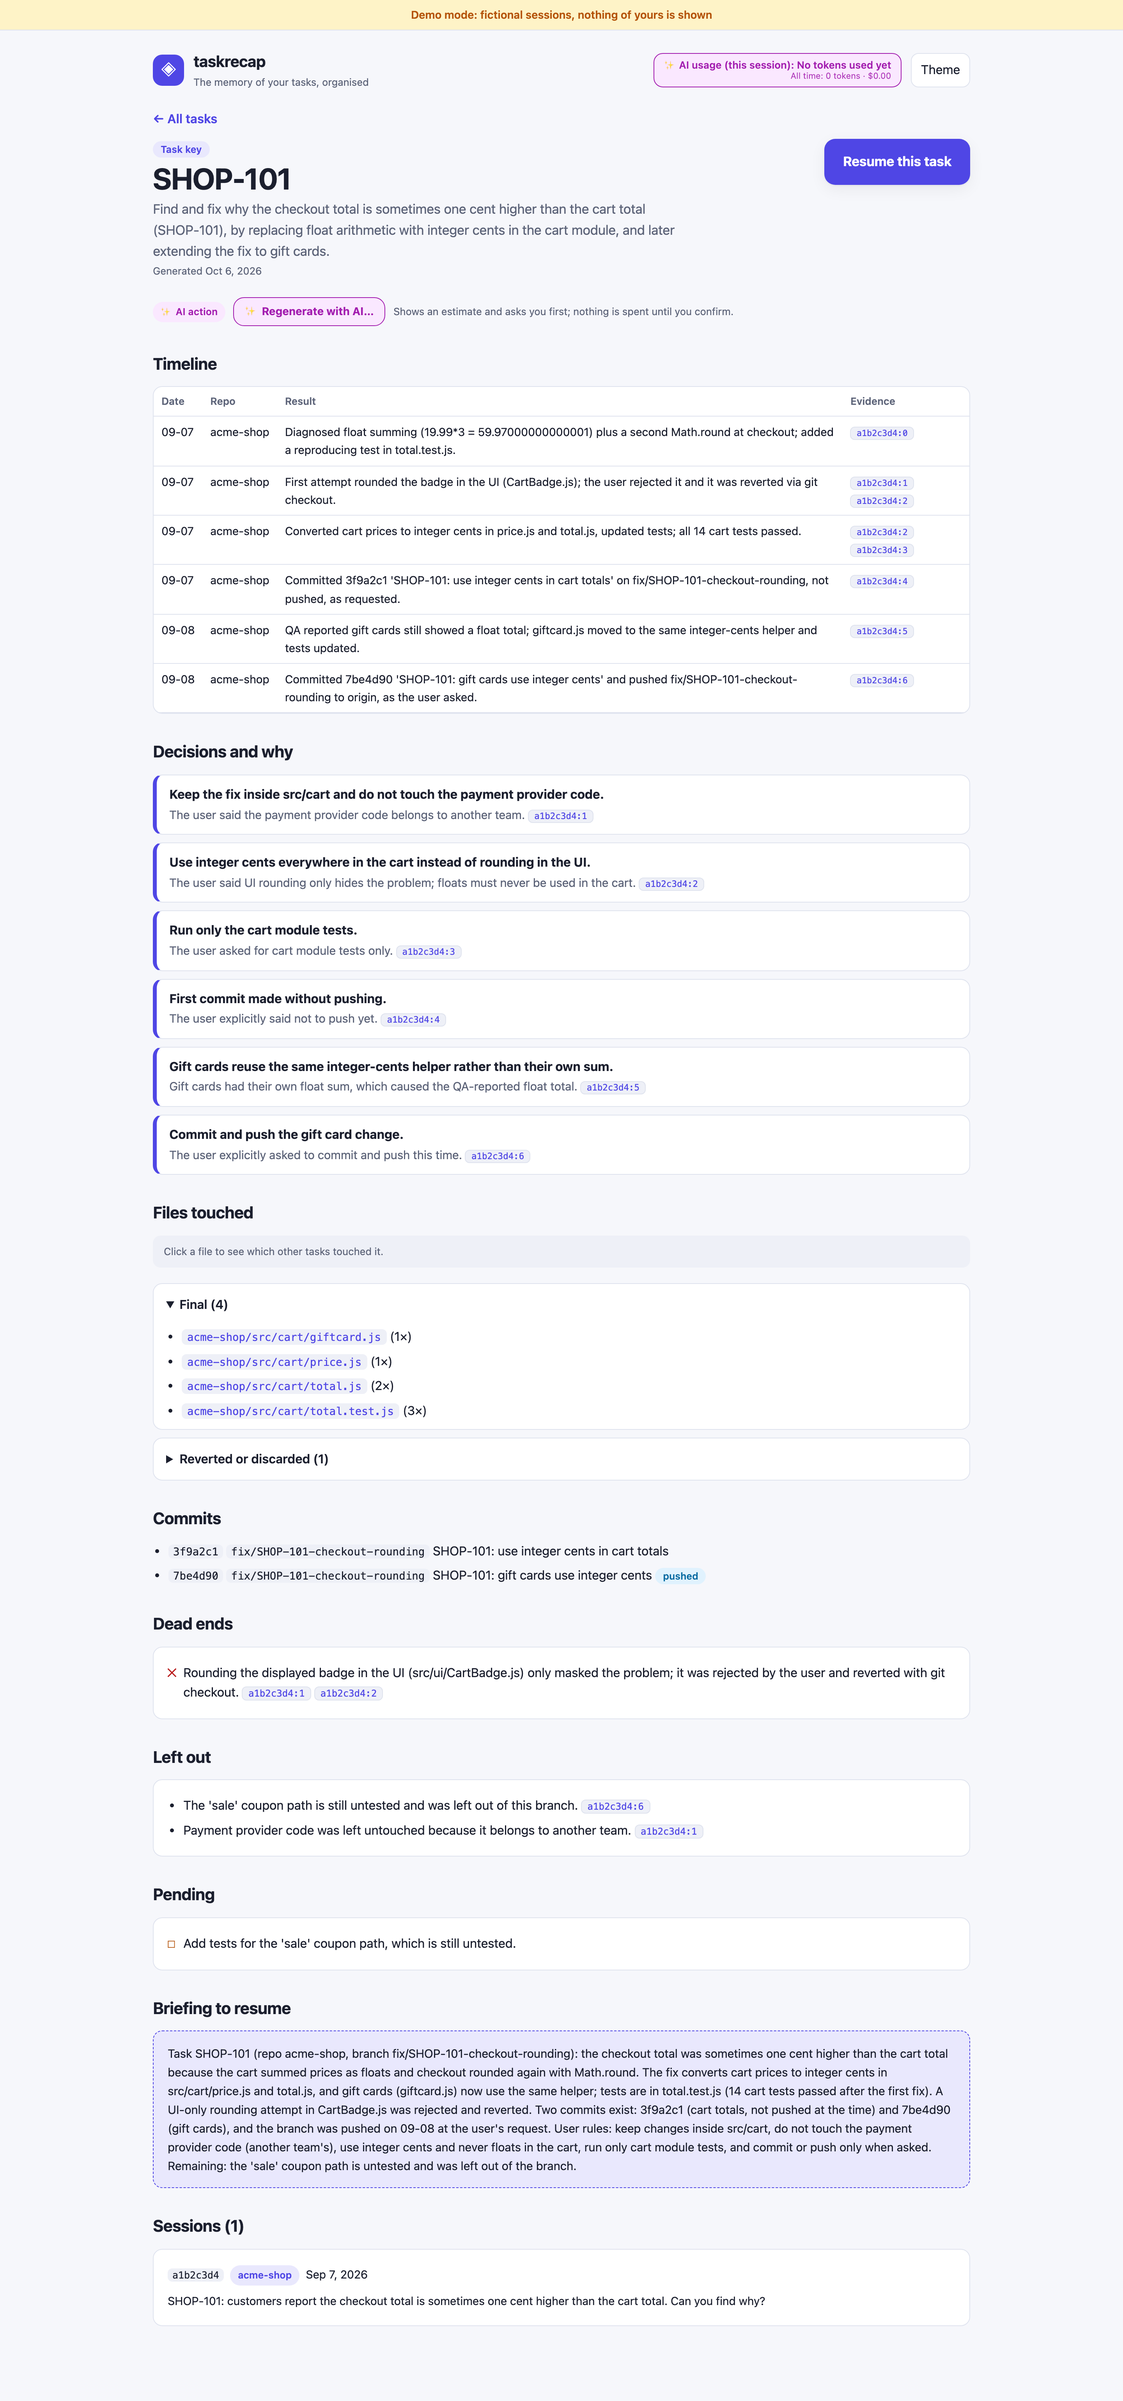
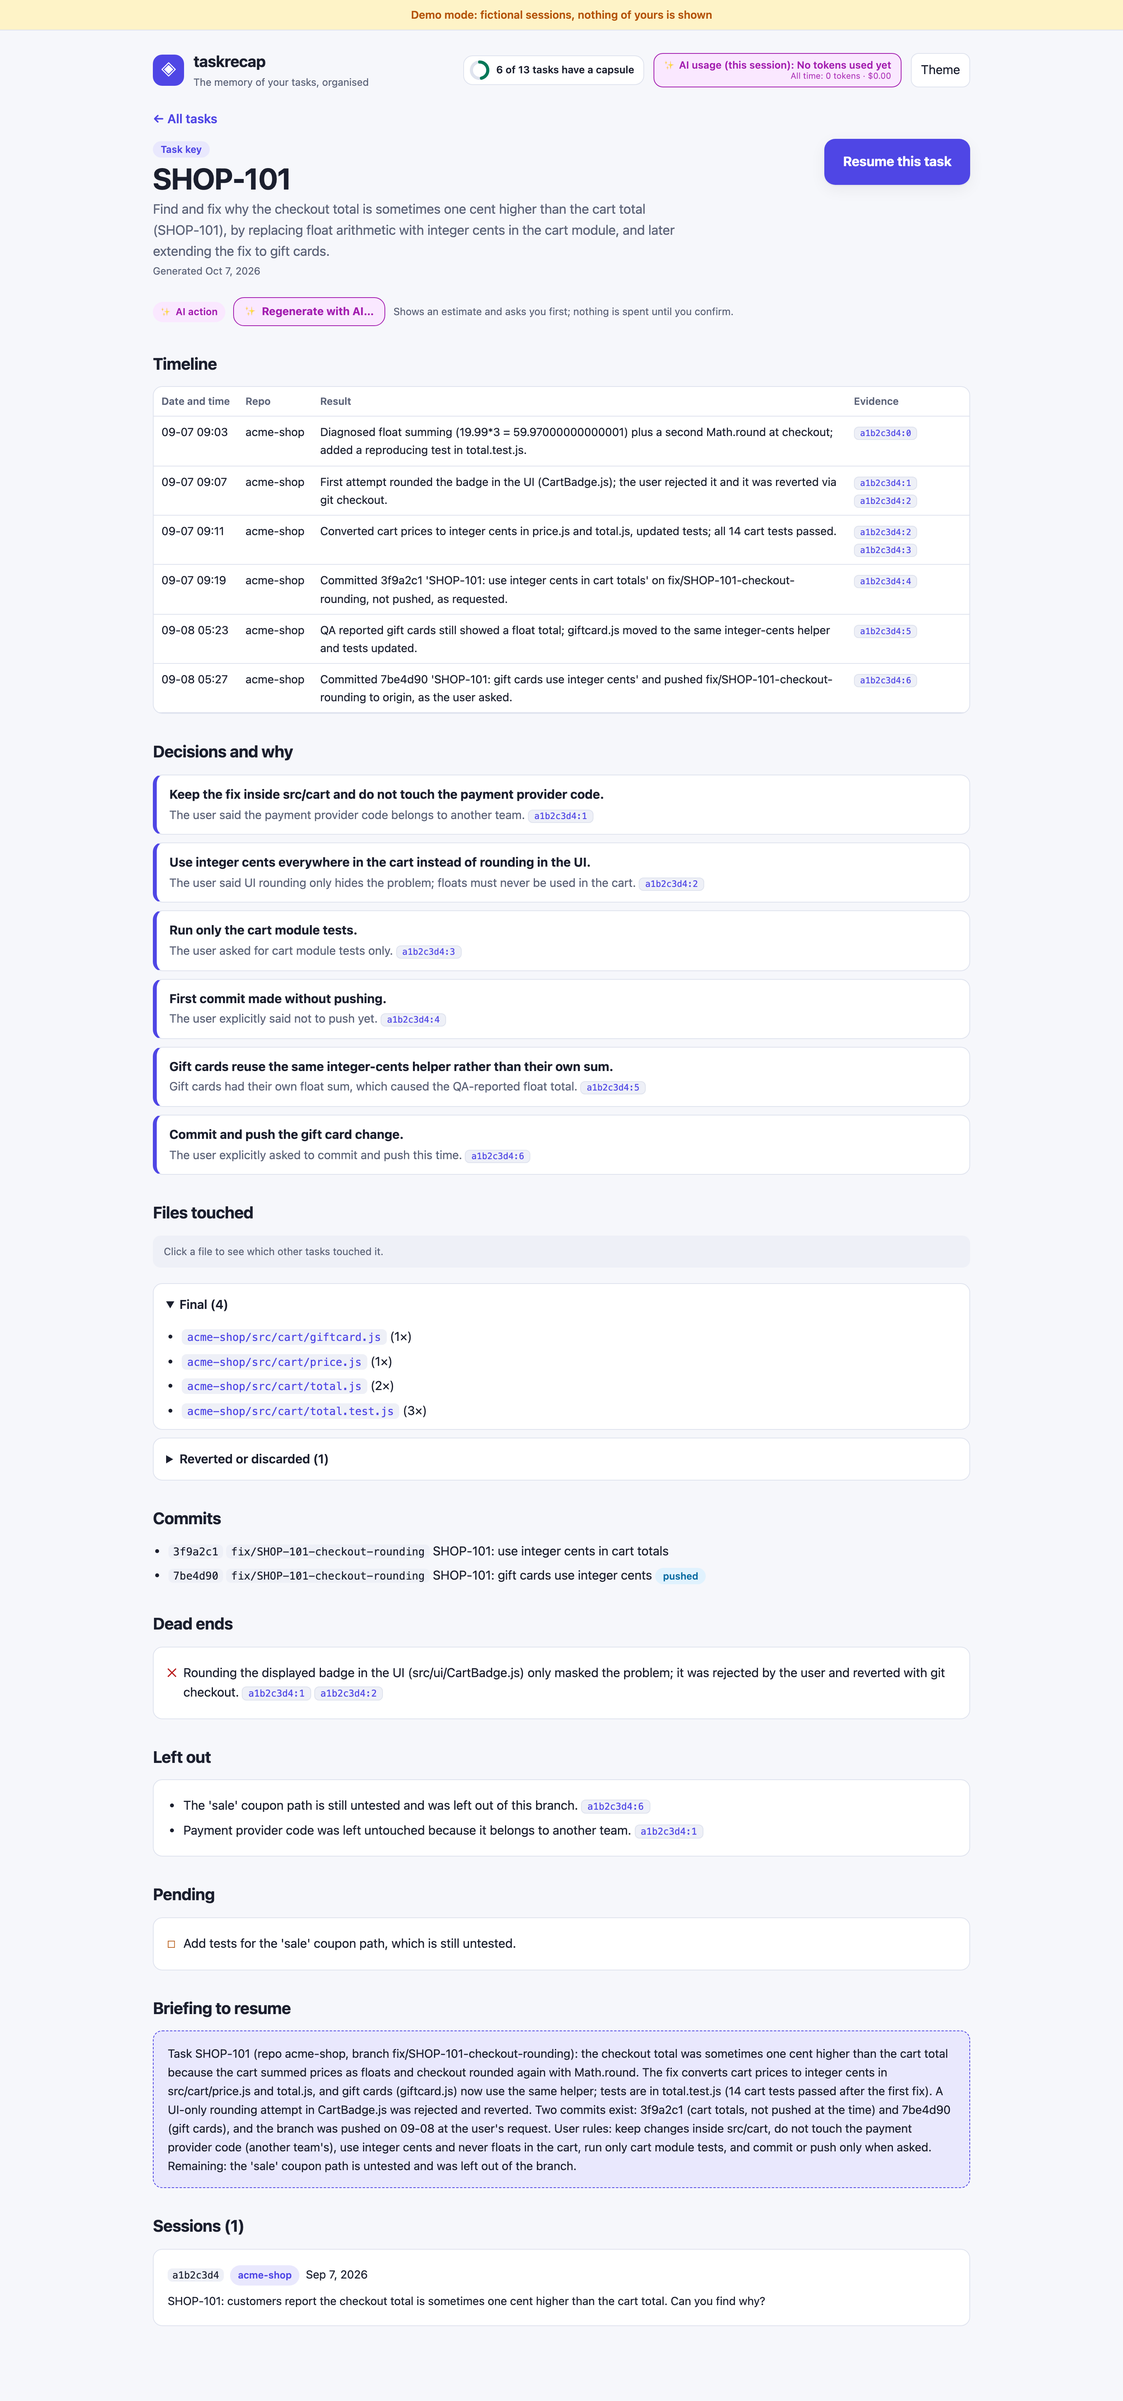
Show the time of day in the capsule timeline
The first column of a capsule's Timeline now reads "MM-DD HH:MM" (24 h, the
browser's own timezone) instead of only the date. The time is that of the
first cited message of each row, resolved server-side with the same turn
indexing the evidence panel uses, so capsules generated before this change
get it too and nothing is regenerated or sent to the model. A row whose cites
cannot be located keeps just its stored date: a time is never invented.

Changed region(s): [[0.2188, 0.1559, 0.7188, 0.3119], [0.7812, 0.2183, 0.8125, 0.2495]]

diff --git a/test/rowtimes.test.js b/test/rowtimes.test.js
@@ -1,0 +1,182 @@
+import assert from 'node:assert/strict';
+import fs from 'node:fs';
+import http from 'node:http';
+import path from 'node:path';
+import { after, before, test } from 'node:test';
+import { App, DEMO_DIR } from '../src/app.js';
+import { seedDemoCache } from '../src/cli.js';
+import { citeTimestamp, turnTimestamps, withRowTimes } from '../src/evidence.js';
+import { startServer } from '../src/server.js';
+import { makeSession, tmpDir } from './helpers.js';
+
+const T0 = '2026-09-07T14:32:00.000Z';
+const T1 = '2026-09-07T15:10:00.000Z';
+const T2 = '2026-09-08T09:05:00.000Z';
+
+let tmp;
+let proj;
+let files;
+let app;
+let srv;
+
+before(async () => {
+  tmp = tmpDir();
+  proj = path.join(tmp, 'projects');
+  makeSession(proj, 'aaaaaaaa-0001', [[T0, 'KK-3 first', 'ok'], [T1, 'KK-3 second', 'ok'], [T2, 'KK-3 third', 'ok']], { branch: 'fix/KK-3' });
+  makeSession(proj, 'dupe0001-aaaa', [[T0, 'one', 'ok']], { proj: 'p2' });
+  makeSession(proj, 'dupe0001-bbbb', [[T0, 'two', 'ok']], { proj: 'p3' });
+  makeSession(proj, 'nostamp1-0001', [[undefined, 'KK-4 no timestamp', 'ok'], ['not-a-date', 'KK-4 garbage timestamp', 'ok']], { proj: 'p4' });
+  app = new App({ projectsDir: proj, cacheDir: path.join(tmp, 'cache'), votes: 1, usageFile: path.join(tmp, 'usage.json'), ask: async () => { throw new Error('free endpoints must never call the LLM'); } });
+  files = app.index.listFiles();
+  srv = await startServer(app, 0);
+});
+
+after(() => srv.server.close());
+
+function get(route) {
+  return new Promise((resolve, reject) => {
+    http.get({ host: '127.0.0.1', port: srv.port, path: route }, (res) => {
+      const chunks = [];
+      res.on('data', (c) => chunks.push(c));
+      res.on('end', () => resolve([res.statusCode, JSON.parse(Buffer.concat(chunks).toString('utf8') || '{}')]));
+    }).on('error', reject);
+  });
+}
+
+test('the time of a row is that of the FIRST cite listed, not the earliest or the last', () => {
+  assert.equal(citeTimestamp([{ session: 'aaaaaaaa', turn: 1 }, { session: 'aaaaaaaa', turn: 0 }], files), T1);
+  assert.equal(citeTimestamp([{ session: 'aaaaaaaa', turn: 2 }], files), T2);
+  assert.equal(citeTimestamp([{ session: 'aaaaaaaa', turn: '0' }], files), T0, 'a numeric string is still a turn number');
+});
+
+test('an unresolvable first cite falls through to the next one that can be located', () => {
+  const cites = [{ session: 'gone0000', turn: 0 }, { session: 'aaaaaaaa', turn: 99 }, { session: 'aaaaaaaa', turn: 1 }];
+  assert.equal(citeTimestamp(cites, files), T1);
+});
+
+test('no resolvable cite means no time: it is never invented', () => {
+  assert.equal(citeTimestamp([], files), null);
+  assert.equal(citeTimestamp(undefined, files), null);
+  assert.equal(citeTimestamp('aaaaaaaa:0', files), null, 'cites that are not an array');
+  assert.equal(citeTimestamp([{ session: 'gone0000', turn: 0 }], files), null, 'the session file no longer exists');
+  assert.equal(citeTimestamp([{ session: 'aaaaaaaa', turn: 3 }], files), null, 'turn past the end of the session');
+  assert.equal(citeTimestamp([{ session: 'aaaaaaaa', turn: -1 }], files), null);
+  assert.equal(citeTimestamp([{ session: 'aaaaaaaa', turn: 1.5 }], files), null);
+  assert.equal(citeTimestamp([{ session: 'aaaaaaaa', turn: null }], files), null, 'null must not mean turn 0');
+  assert.equal(citeTimestamp([{ session: 'aaaaaaaa' }], files), null);
+  assert.equal(citeTimestamp([{ session: 'dupe0001', turn: 0 }], files), null, 'two sessions share this prefix, so it cannot be matched safely');
+  assert.equal(citeTimestamp([{ session: '', turn: 0 }], files), null);
+  assert.equal(citeTimestamp([null, 7, { turn: 0 }], files), null, 'junk entries are skipped, not thrown on');
+});
+
+test('a message without a usable timestamp gives no time', () => {
+  assert.equal(citeTimestamp([{ session: 'nostamp1', turn: 0 }], files), null, 'missing timestamp');
+  assert.equal(citeTimestamp([{ session: 'nostamp1', turn: 1 }], files), null, 'unparseable timestamp');
+  assert.deepEqual(turnTimestamps(files.find((f) => f.includes('nostamp1'))), [null, null]);
+});
+
+test('withRowTimes adds ts to the rows it can place and leaves the input and the other fields alone', () => {
+  const input = [
+    { date: '09-07', repo: 'shop', result: 'a', cites: [{ session: 'aaaaaaaa', turn: 0 }] },
+    { date: '09-08', repo: 'shop', result: 'b', cites: [] },
+    { date: '09-09', repo: 'shop', result: 'c' },
+  ];
+  const snapshot = JSON.stringify(input);
+  const out = withRowTimes(input, files);
+  assert.equal(JSON.stringify(input), snapshot, 'the stored capsule must not be mutated');
+  assert.equal(out[0].ts, T0);
+  assert.equal(out[0].date, '09-07');
+  assert.equal(out[0].result, 'a');
+  assert.ok(!('ts' in out[1]) && !('ts' in out[2]), 'rows without a located cite get no ts');
+  assert.deepEqual(withRowTimes(undefined, files), []);
+});
+
+test('timestamps are re-read when the session file changes', () => {
+  const dir = tmpDir();
+  const f = makeSession(dir, 'cccccccc-0001', [[T0, 'KK-5 one', 'ok']]);
+  assert.deepEqual(turnTimestamps(f), [T0]);
+  fs.appendFileSync(f, JSON.stringify({ type: 'user', timestamp: T2, gitBranch: 'main', cwd: '/x/app', message: { content: 'KK-5 two' } }) + '\n');
+  assert.deepEqual(turnTimestamps(f), [T0, T2]);
+});
+
+test('GET /api/tasks/<key> returns each timeline row with its time, and the stored capsule keeps no ts', async () => {
+  const stored = {
+    key: 'KK-3',
+    capsule: {
+      objective: 'Fix it', decisions: [], dead_ends: [], left_out: [], pending: [], briefing: '',
+      timeline: [
+        { date: '09-07', repo: 'shop', result: 'start', cites: [{ session: 'aaaaaaaa', turn: 0 }] },
+        { date: '09-08', repo: 'shop', result: 'finish', cites: [{ session: 'aaaaaaaa', turn: 2 }, { session: 'aaaaaaaa', turn: 1 }] },
+        { date: '09-09', repo: 'shop', result: 'unplaceable', cites: [{ session: 'gone0000', turn: 0 }] },
+      ],
+    },
+    files: [], commits: { confirmed: [], possible: [] }, markdown: '',
+  };
+  app.store.save('KK-3', stored);
+  const [status, body] = await get('/api/tasks/KK-3');
+  assert.equal(status, 200);
+  const rows = body.capsule.capsule.timeline;
+  assert.deepEqual(rows.map((r) => r.ts || null), [T0, T2, null]);
+  assert.deepEqual(rows.map((r) => r.date), ['09-07', '09-08', '09-09'], 'rows keep their stored date and order');
+  assert.ok(!JSON.stringify(app.store.load('KK-3')).includes('"ts"'), 'the stored capsule is untouched');
+  assert.ok(!fs.readFileSync(path.join(tmp, 'cache', 'KK-3.json'), 'utf8').includes('"ts"'));
+});
+
+test('every demo capsule row that cites a message gets a time on the same UTC day as its stored date', () => {
+  const cacheDir = tmpDir();
+  seedDemoCache(path.join(DEMO_DIR, 'capsules'), cacheDir);
+  const demo = new App({ projectsDir: path.join(DEMO_DIR, 'sessions'), cacheDir, demo: true });
+  let rows = 0;
+  for (const t of demo.listTasks().filter((x) => x.has_capsule)) {
+    for (const row of demo.taskDetail(t.key).capsule.capsule.timeline) {
+      rows += 1;
+      assert.ok(row.ts, `${t.key}: row "${row.date}" should get a time`);
+      assert.equal(row.ts.slice(5, 10), row.date, `${t.key}: the time must come from a message of the row's own day`);
+    }
+  }
+  assert.ok(rows >= 18, 'the demo has enough rows to make this meaningful');
+});
+
+// ---- the browser formatter (the real function, lifted from web/index.html) ----
+
+const html = fs.readFileSync(path.join(DEMO_DIR, '..', 'web', 'index.html'), 'utf8');
+const pad = html.match(/const pad2 = [^\n]+/)[0];
+const fn = html.match(/function whenLabel\(ts\) \{[\s\S]*?\n\}/)[0];
+/** Runs the shipped function with TZ set to `tz` for just this call (a fresh Function, so no zone is cached across zones). */
+const label = (tz, ts) => {
+  const before = process.env.TZ;
+  process.env.TZ = tz;
+  try {
+    return new Function(`${pad}\n${fn}\nreturn whenLabel(${JSON.stringify(ts)});`)();
+  } finally {
+    if (before === undefined) delete process.env.TZ;
+    else process.env.TZ = before;
+  }
+};
+
+test('browser formatter: 24 h local time MM-DD HH:MM', () => {
+  assert.equal(label('UTC', '2026-09-07T14:32:00.000Z'), '09-07 14:32');
+  assert.equal(label('UTC', '2026-01-02T03:04:00Z'), '01-02 03:04', 'zero padded');
+  assert.equal(label('Asia/Kolkata', '2026-09-07T14:32:00Z'), '09-07 20:02', 'a half-hour zone');
+  assert.equal(label('America/Bogota', '2026-09-07T14:32:00Z'), '09-07 09:32');
+  assert.equal(label('UTC', '2026-09-07T23:59:59Z'), '09-07 23:59');
+});
+
+test('browser formatter: the local date moves with the zone around midnight', () => {
+  assert.equal(label('America/Bogota', '2026-09-08T02:00:00Z'), '09-07 21:00', 'still the previous evening in Colombia');
+  assert.equal(label('Pacific/Auckland', '2026-09-07T11:59:00Z'), '09-07 23:59');
+  assert.equal(label('Pacific/Auckland', '2026-09-07T12:00:00Z'), '09-08 00:00', 'midnight shows as 00:00, never 24:00');
+  assert.equal(label('UTC', '2026-12-31T23:59:00Z'), '12-31 23:59');
+  assert.equal(label('Asia/Tokyo', '2026-12-31T15:00:00Z'), '01-01 00:00', 'across New Year');
+});
+
+test('browser formatter: daylight saving jumps are respected', () => {
+  assert.equal(label('America/New_York', '2026-03-08T06:59:00Z'), '03-08 01:59', 'last minute before the spring jump');
+  assert.equal(label('America/New_York', '2026-03-08T07:00:00Z'), '03-08 03:00', '02:00-02:59 does not exist that night');
+  assert.equal(label('America/New_York', '2026-11-01T05:30:00Z'), '11-01 01:30', 'first 01:30 of the fall repeat (EDT)');
+  assert.equal(label('America/New_York', '2026-11-01T06:30:00Z'), '11-01 01:30', 'second 01:30 (EST)');
+});
+
+test('browser formatter: no usable time gives null, so the cell falls back to the stored date', () => {
+  for (const bad of [null, undefined, '', 'garbage', '2026-13-45T99:99:99Z']) assert.equal(label('UTC', bad), null, String(bad));
+});

diff --git a/web/index.html b/web/index.html
@@ -147,7 +147,7 @@ body.evopen { overflow: hidden; }
 table.tl2 { width: 100%; border-collapse: collapse; font-size: 14.5px; }
 table.tl2 th, table.tl2 td { text-align: left; padding: 8px 10px; border-bottom: 1px solid var(--border); vertical-align: top; }
 table.tl2 th { color: var(--muted); font-weight: 600; font-size: 13px; }
-table.tl2 td:nth-child(1), table.tl2 td:nth-child(2) { white-space: nowrap; }
+table.tl2 th:nth-child(1), table.tl2 td:nth-child(1), table.tl2 td:nth-child(2) { white-space: nowrap; }
 table.tl2 td:nth-child(2) { max-width: 18ch; overflow: hidden; text-overflow: ellipsis; }
 .tablewrap { overflow-x: auto; background: var(--surface); border: 1px solid var(--border); border-radius: 12px; }
 /* ---- modes: normal (free, local) vs AI (uses tokens) ---- */
@@ -951,13 +951,25 @@ const cites = (cs) => (cs && cs.length ? ` <span class="cites">${cs.map((c) => `
 const list = (items, render, cls) => (items && items.length ? `<ul class="items ${cls || ""}">${items.map((i) => `<li>${render(i)}</li>`).join("")}</ul>` : `<p>${esc(S.none)}</p>`);
 const commitLi = (c) => `<code>${esc(c.hash)}</code> <code>${esc(c.branch)}</code> ${esc(c.msg)}` + (c.pushed ? ` <span class="chip active">${esc(S.pushed)}</span>` : "") + (c.undone ? ` <span class="chip warn">${esc(S.undone)}</span>` : "");
 
+const pad2 = (n) => String(n).padStart(2, "0");
+/** 'MM-DD HH:MM' (24 h) in the browser's own timezone from an ISO timestamp; null when the row has no usable time. */
+function whenLabel(ts) {
+  const d = ts ? new Date(ts) : null;
+  return d && !Number.isNaN(d.getTime()) ? `${pad2(d.getMonth() + 1)}-${pad2(d.getDate())} ${pad2(d.getHours())}:${pad2(d.getMinutes())}` : null;
+}
+/** The first cell of a timeline row: date and time of its first cited message, or just the stored date when no time is known. */
+function whenCell(row) {
+  const label = whenLabel(row.ts);
+  return label ? `<span title="${esc(S.timeline_time_hint)}">${esc(label)}</span>` : esc(row.date);
+}
+
 function capsuleHtml(res) {
   CAP_KEY = res.key || "";
   const c = res.capsule || {};
   const files = res.files || [], fin = files.filter((f) => f.status === "final"), rev = files.filter((f) => f.status === "reverted");
   const cm = res.commits || { confirmed: [], possible: [] };
-  const tl = (c.timeline || []).length ? `<div class="tablewrap"><table class="tl2"><thead><tr><th>${esc(S.date)}</th><th>${esc(S.repo)}</th><th>${esc(S.result)}</th><th>${esc(S.evidence)}</th></tr></thead><tbody>` +
-    c.timeline.map((t) => `<tr><td>${esc(t.date)}</td><td>${esc(t.repo)}</td><td>${esc(t.result)}</td><td>${cites(t.cites)}</td></tr>`).join("") + `</tbody></table></div>` : `<p>${esc(S.none)}</p>`;
+  const tl = (c.timeline || []).length ? `<div class="tablewrap"><table class="tl2"><thead><tr><th>${esc(S.date_time)}</th><th>${esc(S.repo)}</th><th>${esc(S.result)}</th><th>${esc(S.evidence)}</th></tr></thead><tbody>` +
+    c.timeline.map((t) => `<tr><td>${whenCell(t)}</td><td>${esc(t.repo)}</td><td>${esc(t.result)}</td><td>${cites(t.cites)}</td></tr>`).join("") + `</tbody></table></div>` : `<p>${esc(S.none)}</p>`;
   const dec = (c.decisions || []).length ? c.decisions.map((d) => `<div class="decision"><strong>${esc(d.decision)}${d.uncertain ? ` <span class="chip warn">${esc(S.uncertain)}</span>` : ""}</strong><span>${esc(d.why || S.no_reason)}${cites(d.cites)}</span></div>`).join("") : `<p>${esc(S.none)}</p>`;
   const fileBtn = (f) => `<button class="filelink" type="button" data-file="${esc(f.short)}">${esc(f.short)}</button>`;
   const filesHtml = `<p class="note" style="margin-top:0">${esc(S.files_hint)}</p>` +

diff --git a/src/evidence.js b/src/evidence.js
@@ -1,5 +1,6 @@
 // Free, local evidence lookup: turns a capsule citation ({session: id8, turn: N}) back into the original messages.
 // Turn numbers come from loadRichTurns(), the same loader the capsule generator used, so the indexing is identical.
+import fs from 'node:fs';
 import os from 'node:os';
 import path from 'node:path';
 import { loadRichTurns } from './capsule.js';
@@ -100,4 +101,48 @@ export function readEvidence(file, turn, { context = DEFAULT_CONTEXT, ranges = n
     },
     turn: n, turns: shown, confidence, warning,
   };
+}
+
+// ---------- time of day for timeline rows ----------
+
+const STAMP_CACHE = new Map(); // `${file}:${mtimeMs}:${size}` -> one ISO timestamp (or null) per turn; tiny, so no eviction needed
+const validStamp = (v) => (typeof v === 'string' && !Number.isNaN(Date.parse(v)) ? v : null);
+
+/** Timestamp of every turn of a session file, in the same turn order the capsule generator used. Cached per file version. */
+export function turnTimestamps(file) {
+  let key = file;
+  try {
+    const st = fs.statSync(file);
+    key = `${file}:${st.mtimeMs}:${st.size}`;
+  } catch {
+    return [];
+  }
+  if (!STAMP_CACHE.has(key)) STAMP_CACHE.set(key, loadRichTurns(file).map((t) => validStamp(t.ts)));
+  return STAMP_CACHE.get(key);
+}
+
+/**
+ * When did a timeline row happen? The timestamp of the FIRST cited message that can be located (cites are tried in the
+ * order the capsule lists them). Never guesses: no resolvable cite or no timestamp -> null.
+ */
+export function citeTimestamp(cites, files) {
+  for (const c of Array.isArray(cites) ? cites : []) {
+    try {
+      const n = typeof c.turn === 'number' ? c.turn : (/^\d{1,9}$/.test(String(c.turn)) ? Number(c.turn) : NaN);
+      if (!Number.isInteger(n) || n < 0) continue;
+      const stamps = turnTimestamps(resolveSession(files, c.session));
+      if (n < stamps.length && stamps[n]) return stamps[n];
+    } catch {
+      // session gone, ambiguous id, unreadable file: this cite cannot give a time, try the next one
+    }
+  }
+  return null;
+}
+
+/** A copy of `timeline` whose rows carry `ts` (ISO) when their first cited message is found. The stored capsule is not touched. */
+export function withRowTimes(timeline, files) {
+  return (timeline || []).map((row) => {
+    const ts = citeTimestamp(row && row.cites, files);
+    return ts ? { ...row, ts } : { ...row };
+  });
 }

diff --git a/src/app.js b/src/app.js
@@ -5,7 +5,7 @@ import { fileURLToPath } from 'node:url';
 import * as capsule from './capsule.js';
 import { APP_NAME, APP_TITLE, DEFAULT_KEY_REGEX, VERSION } from './config.js';
 import { Aborted, estimateCost, extractJson, askLlm, isAbort } from './llm.js';
-import { readEvidence, parseSources, resolveSession } from './evidence.js';
+import { readEvidence, parseSources, resolveSession, withRowTimes } from './evidence.js';
 import { FileIndex } from './files.js';
 import { STAGES, clip, log, makeMatchScanner, makeReporter, stage, throttle } from './progress.js';
 import { buildTimeline } from './timeline.js';
@@ -126,7 +126,14 @@ export class App {
     const task = this.listTasks().find((t) => t.key === key) || null;
     const cap = this.store.load(key);
     if (!task && !sessions.length && !cap) return null;
-    return { task, sessions, capsule: cap };
+    return { task, sessions, capsule: this.withRowTimes(cap) };
+  }
+
+  /** The stored capsule plus, on each timeline row, the time of its first cited message (free; the stored files are unchanged). */
+  withRowTimes(cap) {
+    const timeline = cap && cap.capsule && cap.capsule.timeline;
+    if (!Array.isArray(timeline) || !timeline.length) return cap;
+    return { ...cap, capsule: { ...cap.capsule, timeline: withRowTimes(timeline, this.index.listFiles()) } };
   }
 
   /**
